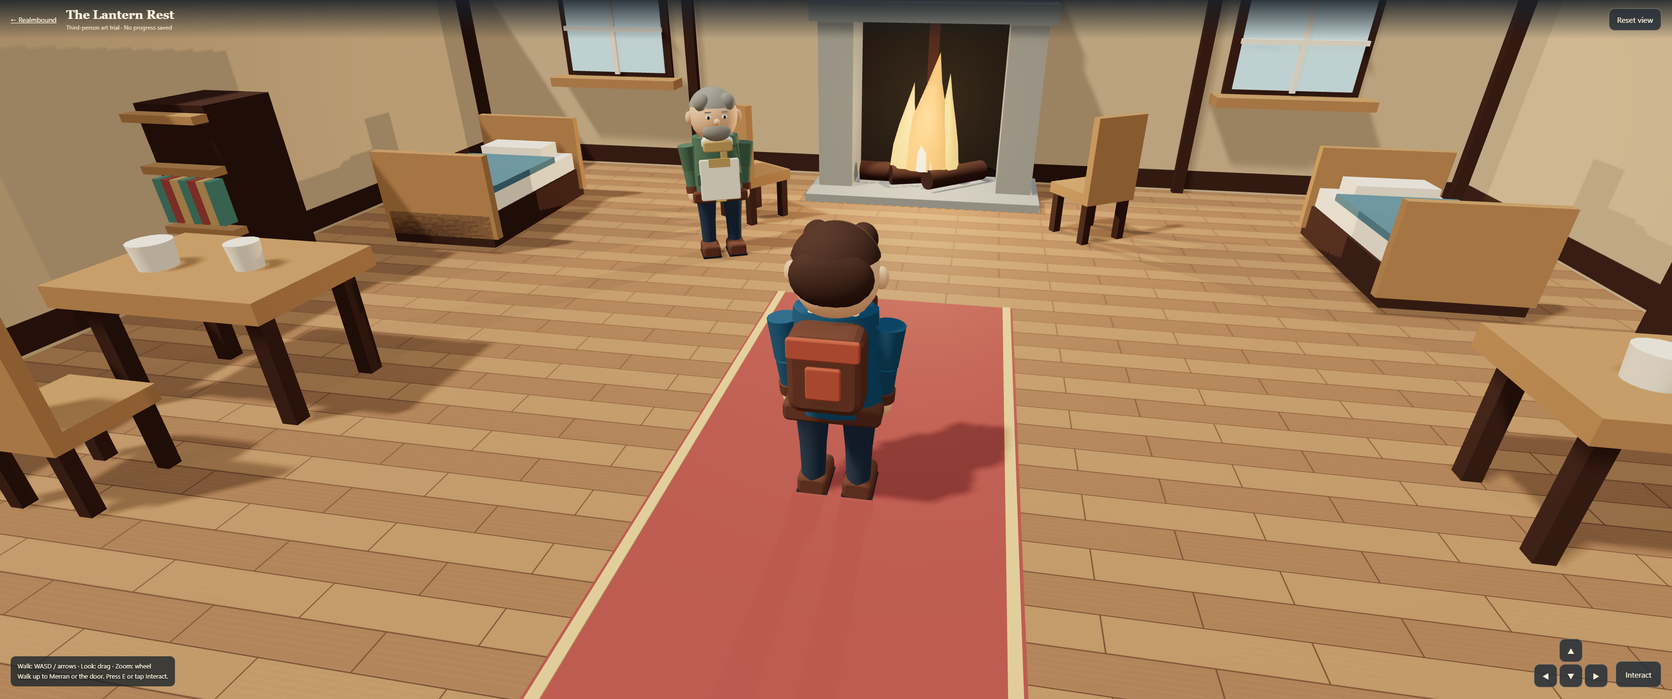
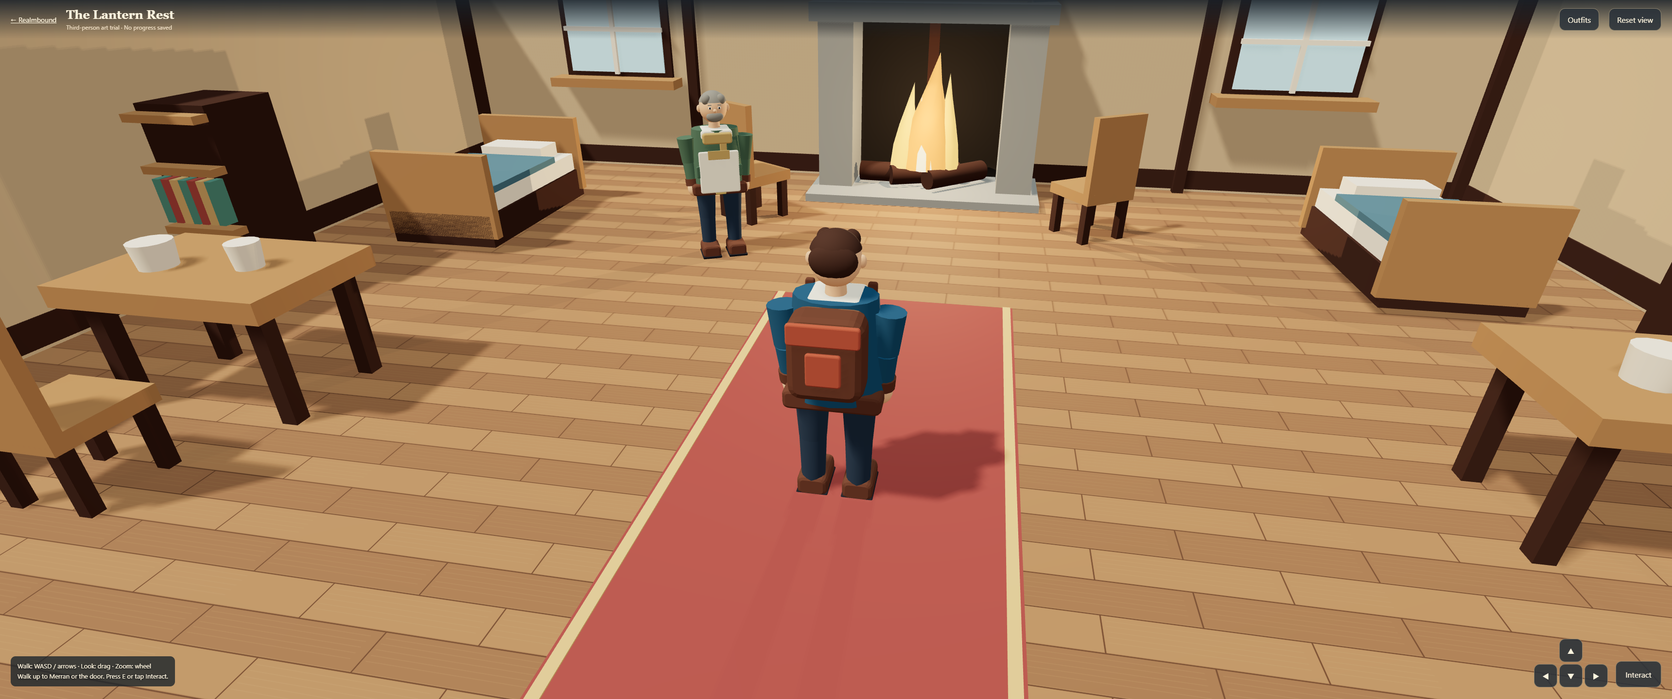
Show modular equipment and refine the 3D adventurer silhouette

diff --git a/experiments/realmbound-3d/gear.js b/experiments/realmbound-3d/gear.js
@@ -1,0 +1,50 @@
+/* Original modular equipment for the isolated trial. Input matches h.gear; no saves or rules. */
+(()=>{'use strict';
+ const T=window.THREE;if(!T)return;
+ const SLOTS=['head','chest','legs','feet','hands','weapon','offhand','trinket'];
+ const TYPES={head:['cloth','leather','mail'],chest:['cloth','leather','mail'],legs:['cloth','leather','mail'],feet:['cloth','leather','mail'],hands:['cloth','leather','mail'],weapon:['sword','dagger','mace','staff','bow'],offhand:['shield','tome','dagger'],trinket:['charm']};
+ const colors={cloth:'#675880',leather:'#765139',mail:'#8b9ba4',wood:'#765036',steel:'#b7c8ce',gold:'#caae70',unknown:'#d47dc0'};
+ function profile(slot,item){const type=slot==='weapon'?item.wtype:slot==='offhand'?item.otype:slot==='trinket'?'charm':item.atype;const supported=TYPES[slot].includes(type);return {id:'gear/'+slot+'/'+(supported?type:'unknown'),type:supported?type:'unknown',slot,name:String(item.name||'Unnamed equipment'),rar:Number.isFinite(item.rar)?item.rar:1};}
+ function mount(parent,name,x=0,y=0,z=0){const g=new T.Group();g.name=name;g.position.set(x,y,z);parent.add(g);return g;}
+ function prepare(hero){const r=hero.userData;if(r.gearSockets)return;
+  r.gearSockets={head:[mount(r.head,'head')],chest:[mount(r.upper,'chest',0,1.04,0),...r.arms.map(a=>mount(a,'shoulder',0,-.065,0))],legs:[...r.legs,...r.knees].map(l=>mount(l,'legs')),feet:r.feet.map(f=>mount(f,'feet')),hands:r.elbows.map(e=>mount(e,'hands',0,-.278,0)),weapon:[mount(r.elbows[1],'weapon',0,-.28,.025)],offhand:[mount(r.elbows[0],'offhand',0,-.28,.025)],trinket:[mount(r.upper,'trinket',0,1.17,.255)]};
+  r.gearVisuals={};r.gearDescriptors={};
+ }
+ function build(parent,p,side){
+  const g=mount(parent,p.id),materials=new Map();g.userData={assetId:p.id,slot:p.slot,type:p.type};
+  function mat(c){if(!materials.has(c))materials.set(c,new T.MeshStandardMaterial({color:new T.Color(c).convertSRGBToLinear(),roughness:c===colors.steel?.38:.8}));return materials.get(c);}
+  function mesh(geo,c,x,y,z){const m=new T.Mesh(geo,mat(c));m.position.set(x,y,z);m.castShadow=m.receiveShadow=true;g.add(m);return m;}
+  const box=(x,y,z,w,h,d,c)=>mesh(new T.BoxGeometry(w,h,d),c,x,y,z);
+  const ball=(x,y,z,w,h,d,c)=>{const m=mesh(new T.SphereGeometry(1,16,10),c,x,y,z);m.scale.set(w,h,d);return m;};
+  const rod=(x,y,z,r,h,c)=>mesh(new T.CylinderGeometry(r,r,h,12),c,x,y,z);
+  const base=colors[p.type]||colors.unknown,trim=p.rar>=3?'#8cc6c9':p.type==='mail'?'#b6c1c5':colors.leather;
+  if(p.type==='unknown'){ball(0,0,.07,.10,.10,.10,base);return g;}
+  if(p.slot==='head'){
+   const cap=mesh(new T.SphereGeometry(.275,20,12,0,Math.PI*2,0,Math.PI*.45),base,0,.025,0);cap.scale.z=.97;
+   if(p.type==='mail'){box(0,.115,.247,.36,.035,.035,trim);for(const s of [-1,1])box(s*.252,-.06,0,.04,.23,.27,base);}
+   else if(p.type==='leather'){box(0,.075,.245,.38,.04,.06,trim);box(0,.21,-.01,.025,.045,.31,trim);}
+   else{ball(0,.19,-.13,.19,.15,.19,base);}
+  }else if(p.slot==='chest'){
+   if(side>0){const sleeve=rod(0,0,0,.109,.16,base);sleeve.scale.z=.98;return g;}const plate=mesh(new T.CylinderGeometry(.25,.29,.56,10),base,0,.025,0);plate.scale.z=.75;
+   box(0,-.18,.248,.38,.025,.025,trim);box(0,.20,.225,.40,.025,.035,trim);
+   
+  }else if(p.slot==='legs'){rod(0,-.16,0,side<2?.112:.089,.31,base);box(0,-.16,side<2?.095:.077,.14,.21,.035,base);
+  }else if(p.slot==='feet'){box(0,.024,.075,.205,.115,.305,base);box(0,.11,-.025,.17,.13,.13,base);box(0,.077,.18,.18,.018,.06,base);
+  }else if(p.slot==='hands'){ball(0,0,0,.071,.087,.067,base);rod(0,.085,0,.077,.085,base);box(0,0,.068,.085,.06,.012,base);
+  }else if(p.slot==='trinket'){ball(0,0,0,.025,.035,.015,colors.gold);box(0,.04,0,.009,.04,.009,colors.gold);
+  }else if(p.type==='shield'){const sh=new T.Shape();sh.moveTo(-.22,.28);sh.lineTo(.22,.28);sh.lineTo(.22,-.08);sh.lineTo(0,-.34);sh.lineTo(-.22,-.08);sh.closePath();const rim=mesh(new T.ExtrudeGeometry(sh,{depth:.045,bevelEnabled:true,bevelThickness:.01,bevelSize:.01,bevelSegments:1,steps:1}),colors.steel,-.06,.07,.12);const inset=mesh(new T.ShapeGeometry(sh),colors.wood,-.06,.07,.18);inset.scale.set(.90,.90,1);ball(-.06,.07,.20,.045,.045,.022,colors.steel);
+  }else if(p.type==='tome'){box(0,.015,.11,.22,.29,.10,'#57436b');box(0,.015,.17,.15,.22,.025,'#e6d7b2');box(0,.015,.192,.03,.27,.014,trim);
+  }else if(p.type==='bow'){
+   const curve=new T.CatmullRomCurve3([new T.Vector3(0,-.55,.05),new T.Vector3(.14,-.30,.05),new T.Vector3(.18,0,.05),new T.Vector3(.14,.30,.05),new T.Vector3(0,.55,.05)]);mesh(new T.TubeGeometry(curve,24,.027,8,false),colors.wood,0,0,0);rod(0,0,.05,.006,1.1,'#ded4bb');box(.18,0,.05,.055,.14,.06,colors.leather);
+  }else if(p.type==='staff'){rod(0,.05,.06,.035,1.45,colors.wood);ball(0,.84,.06,.08,.11,.08,'#80bac8');rod(0,.70,.06,.06,.05,trim);
+  }else if(p.type==='mace'){rod(0,.15,.07,.03,.44,colors.wood);ball(0,.42,.07,.10,.10,.10,colors.steel);for(const s of [-1,1])box(s*.09,.42,.07,.035,.16,.09,colors.steel);g.rotation.z=Math.PI+.20;
+  }else{const length=p.type==='dagger'?.25:.45;rod(0,-.015,.08,.035,.18,colors.leather);box(0,.095,.08,.16,.025,.045,colors.steel);box(0,.12+length/2,.08,.065,length,.025,colors.steel);const tip=mesh(new T.ConeGeometry(.047,.10,4),colors.steel,0,.17+length,.08);tip.rotation.y=Math.PI/4;g.rotation.z=Math.PI+(p.slot==='offhand'?-.20:.20);}
+  return g;
+ }
+ function clear(hero,slot){const r=hero.userData;for(const g of r.gearVisuals[slot]||[]){g.traverse(o=>{if(o.geometry)o.geometry.dispose();});const mats=new Set();g.traverse(o=>{if(o.material)mats.add(o.material);});mats.forEach(m=>m.dispose());g.removeFromParent();}delete r.gearVisuals[slot];delete r.gearDescriptors[slot];}
+ function apply(hero,gear={}){prepare(hero);const r=hero.userData;for(const slot of SLOTS){clear(hero,slot);const item=gear[slot];if(!item)continue;const p=profile(slot,item);r.gearDescriptors[slot]=p;r.gearVisuals[slot]=r.gearSockets[slot].map((socket,i)=>build(socket,p,i));}r.head.traverse(o=>{if(o.name==='hair')o.visible=!gear.head;});r.pack.visible=!gear.chest;r.upper.traverse(o=>{if(o.name==='underlayer-detail')o.visible=!gear.chest;});const cloth=gear.chest?.atype==='mail'?'#3e4d57':gear.chest?.atype==='leather'?'#475340':gear.chest?.atype==='cloth'?'#514864':r.coatHex;r.coat.color.set(cloth).convertSRGBToLinear();return r.gearDescriptors;}
+ function kit(atype,wtype,otype){const gear={};for(const slot of SLOTS)gear[slot]={slot,rar:1,ilvl:10,name:slot,atype,wtype,otype};return gear;}
+ // Explicit demonstration items, not generated rewards or the player's equipment.
+ const presets=[{name:'Travel clothes',gear:{}},{name:'Warrior kit',gear:kit('mail','sword','shield')},{name:'Hunter kit',gear:kit('leather','bow','dagger')},{name:'Mage kit',gear:kit('cloth','staff','tome')}];
+ window.RealmTrialGear={SLOTS,profile,prepare,apply,presets};
+})();

diff --git a/experiments/realmbound-3d/characters.js b/experiments/realmbound-3d/characters.js
@@ -13,49 +13,49 @@
  function tube(parent,x,y,z,r1,r2,h,mat){return part(parent,new T.CylinderGeometry(r1,r2,h,14),mat,x,y,z);}
  function group(parent,x,y,z){const g=new T.Group();g.position.set(x,y,z);parent.add(g);return g;}
  function create({keeper=false}={}){
-  const g=new T.Group(),upper=group(g,0,0,0),coat=material(keeper?'#56705b':'#315e79'),pants=material('#354557'),trim=material(keeper?'#bd9d63':'#af5942'),hair=keeper?palette.grey:palette.hair;
+  const g=new T.Group(),upper=group(g,0,0,0),torso=group(upper,0,.08,0),coat=material(keeper?'#56705b':'#315e79'),pants=material('#354557'),trim=material(keeper?'#bd9d63':'#af5942'),hair=keeper?palette.grey:palette.hair;
   // Tailored jacket, collar, belt and layered shoulder sleeves.
-  const jacket=tube(upper,0,.96,0,.24,.29,.61,coat);jacket.scale.z=.7;
-  rounded(upper,0,.66,0,.57,.12,.34,.025,palette.leather);
-  rounded(upper,0,.66,.188,.11,.09,.025,.007,palette.gold);
-  rounded(upper,0,1.22,.025,.32,.10,.28,.025,palette.cream);
-  rounded(upper,0,1.19,.17,.30,.11,.065,.018,trim);
-  rounded(upper,.055,1.04,.18,.07,.29,.035,.01,trim);
-  for(const x of [-.16,.16])rounded(upper,x,.86,.19,.15,.12,.025,.01,coat);
-  if(keeper){rounded(upper,0,.85,.19,.41,.43,.035,.016,palette.cream);rounded(upper,0,1.03,.215,.22,.09,.012,.003,trim);}
-  const head=group(upper,0,1.47,0);
+  const jacket=tube(torso,0,.96,0,.24,.29,.61,coat);jacket.scale.z=.7;
+  rounded(torso,0,.66,0,.57,.12,.34,.025,palette.leather);
+  rounded(torso,0,.66,.188,.11,.09,.025,.007,palette.gold);
+  rounded(torso,0,1.22,.025,.32,.10,.28,.025,palette.cream).name='underlayer-detail';
+  rounded(torso,0,1.19,.17,.30,.11,.065,.018,trim).name='underlayer-detail';
+  rounded(torso,.055,1.04,.18,.07,.29,.035,.01,trim).name='underlayer-detail';
+  for(const x of [-.16,.16])rounded(torso,x,.86,.19,.15,.12,.025,.01,coat).name='underlayer-detail';
+  if(keeper){rounded(torso,0,.85,.19,.41,.43,.035,.016,palette.cream);rounded(torso,0,1.03,.215,.22,.09,.012,.003,trim);}
+  tube(torso,0,1.28,0,.055,.065,.13,palette.skin);const head=group(torso,0,1.47,0);head.scale.setScalar(.58);
   ellipsoid(head,0,0,0,.245,.27,.235,palette.skin);
-  const cap=part(head,new T.SphereGeometry(.254,24,16,0,Math.PI*2,0,Math.PI*.40),hair,0,.025,-.006);cap.scale.z=.98;
+  const cap=part(head,new T.SphereGeometry(.254,24,16,0,Math.PI*2,0,Math.PI*.40),hair,0,.025,-.006);cap.scale.z=.98;cap.name='hair';
   // Hair ends at the forehead in front, but extends behind the ears at the rear.
-  ellipsoid(head,0,.025,-.145,.23,.17,.115,hair);
+  ellipsoid(head,0,.025,-.145,.23,.17,.115,hair).name='hair';
   for(const sign of [-1,1]){
    ellipsoid(head,sign*.246,-.015,0,.042,.065,.034,palette.skin);
    const eye=ellipsoid(head,sign*.082,.018,.224,.029,.023,.013,palette.cream);eye.name='eye';
    ellipsoid(head,sign*.081,.018,.235,.012,.017,.008,palette.dark);
    rounded(head,sign*.083,.069,.223,.065,.012,.016,.003,hair);
-   const fringe=ellipsoid(head,sign*.13,.151,.14,.078,.088,.070,hair);fringe.rotation.z=sign*.25;
+   const fringe=ellipsoid(head,sign*.13,.151,.14,.078,.088,.070,hair);fringe.rotation.z=sign*.25;fringe.name='hair';
   }
   ellipsoid(head,0,-.025,.24,.031,.032,.037,palette.skin);
   rounded(head,0,-.112,.221,.051,.008,.014,.002,palette.leather);
   if(keeper)ellipsoid(head,0,-.135,.18,.15,.091,.065,hair);
   const arms=[],elbows=[],legs=[],knees=[],feet=[];
   for(const sign of [-1,1]){
-   const arm=group(upper,sign*.30,1.18,0);tube(arm,0,-.125,0,.094,.076,.25,coat);
+   const arm=group(torso,sign*.30,1.18,0);tube(arm,0,-.125,0,.094,.076,.25,coat);
    const elbow=group(arm,0,-.25,0);tube(elbow,0,-.115,0,.072,.062,.23,coat);tube(elbow,0,-.207,0,.075,.075,.07,palette.leather);
    ellipsoid(elbow,0,-.278,0,.064,.083,.060,palette.skin);
    arms.push(arm);elbows.push(elbow);
-   const leg=group(g,sign*.14,.63,0);tube(leg,0,-.13,0,.107,.084,.26,pants);
-   const knee=group(leg,0,-.26,0);tube(knee,0,-.125,0,.083,.073,.25,pants);
-   const foot=group(knee,0,-.30,0);rounded(foot,0,0,.07,.19,.135,.29,.032,palette.leather);rounded(foot,0,-.055,.075,.20,.023,.30,.007,palette.dark);
+   const leg=group(g,sign*.14,.74,0);tube(leg,0,-.165,0,.107,.084,.33,pants);
+   const knee=group(leg,0,-.33,0);tube(knee,0,-.155,0,.083,.073,.31,pants);
+   const foot=group(knee,0,-.34,0);rounded(foot,0,0,.07,.19,.135,.29,.032,palette.leather);rounded(foot,0,-.055,.075,.20,.023,.30,.007,palette.dark);
    legs.push(leg);knees.push(knee);feet.push(foot);
   }
-  if(!keeper){
-   rounded(upper,0,1.02,-.255,.42,.48,.23,.055,palette.leather);
-   rounded(upper,0,1.19,-.385,.39,.12,.035,.01,trim);
-   rounded(upper,0,.99,-.383,.19,.19,.03,.014,trim);
-   for(const sign of [-1,1]){rounded(upper,sign*.18,1.06,.17,.055,.43,.035,.01,palette.leather);rounded(upper,sign*.18,.93,.195,.055,.05,.016,.006,palette.gold);}
+  const pack=group(torso,0,0,0);if(!keeper){
+   rounded(pack,0,1.02,-.255,.42,.48,.23,.055,palette.leather);
+   rounded(pack,0,1.19,-.385,.39,.12,.035,.01,trim);
+   rounded(pack,0,.99,-.383,.19,.19,.03,.014,trim);
+   for(const sign of [-1,1]){rounded(pack,sign*.18,1.06,.17,.055,.43,.035,.01,palette.leather);rounded(pack,sign*.18,.93,.195,.055,.05,.016,.006,palette.gold);}
   }
-  g.userData={upper,head,arms,elbows,legs,knees,feet,keeper};return g;
+  g.userData={upper,head,arms,elbows,legs,knees,feet,keeper,pack,coat,coatHex:keeper?"#56705b":"#315e79"};return g;
  }
  function animate(g,{walking=false,phase=0,time=0,reduced=false,talking=false}={}){
   const r=g.userData,walk=walking&&!reduced,breath=reduced?0:Math.sin(time*1.8)*.004;
@@ -63,12 +63,12 @@
   for(let i=0;i<2;i++){
    const p=phase+i*Math.PI,swing=walk?Math.sin(p):0;
    r.arms[i].rotation.x=-swing*.30;r.arms[i].rotation.z=(i?-.07:.07);r.elbows[i].rotation.x=-.13;
-   r.legs[i].position.y=walk?.60:.63;
+   r.legs[i].position.y=walk?.71:.74;
    if(walk){
     // Two-bone inverse kinematics: stance feet stay low, swing feet clear the floor.
     const cycle=((p/(Math.PI*2))%1+1)%1,stance=cycle<.5,u=stance?cycle*2:(cycle-.5)*2;
-    const z=stance?.19-.38*u:-.19+.38*u*u*(3-2*u),y=.08+(stance?0:.12*Math.sin(u*Math.PI)),dy=y-.60;
-    const a=.26,b=.30,d=T.MathUtils.clamp(Math.hypot(dy,z),.20,a+b-.001);
+    const z=stance?.19-.38*u:-.19+.38*u*u*(3-2*u),y=.08+(stance?0:.12*Math.sin(u*Math.PI)),dy=y-.71;
+    const a=.33,b=.34,d=T.MathUtils.clamp(Math.hypot(dy,z),.20,a+b-.001);
     const base=Math.atan2(-z,-dy),offset=Math.acos(T.MathUtils.clamp((a*a+d*d-b*b)/(2*a*d),-1,1));
     r.legs[i].rotation.x=base-offset;r.knees[i].rotation.x=Math.PI-Math.acos(T.MathUtils.clamp((a*a+b*b-d*d)/(2*a*b),-1,1));
     r.feet[i].rotation.x=-r.legs[i].rotation.x-r.knees[i].rotation.x;

diff --git a/experiments/realmbound-3d/trial.js b/experiments/realmbound-3d/trial.js
@@ -41,7 +41,7 @@
  box(porch,0,-.14,0,22,.25,22,mat('#68816a'));box(porch,0,-.02,0,3,.06,15,mat('#c4b391'));outsideWalls.push(box(porch,0,1.6,-5,14,3.2,.5,mat('#c4ad8b'),true));box(porch,0,1.1,-4.7,1.6,2.2,.1,darkWood);box(porch,0,3.45,-5,15,.3,2,darkWood);
  for(const x of [-7,7])for(const z of [-2,3,7]){cylinder(porch,x,.9,z,.18,.25,1.8,darkWood);sphere(porch,x,2.4,z,1,mat('#365e49'),1,1.25,1);solids.push({x,z,w:1.8,d:1.8,outside:true});}
  const hemi=new T.HemisphereLight('#dceaf5','#77543a',.9);scene.add(hemi);const sun=new T.DirectionalLight('#ffebc5',.9);sun.position.set(-5,9,4);sun.castShadow=true;sun.shadow.mapSize.set(1024,1024);Object.assign(sun.shadow.camera,{left:-12,right:12,top:12,bottom:-12,near:1,far:30});sun.shadow.bias=-.0005;sun.shadow.normalBias=.04;scene.add(sun);
- const hero=RealmTrialCharacters.create();hero.position.set(0,0,1.5);hero.rotation.y=Math.PI;scene.add(hero);const keeper=RealmTrialCharacters.create({keeper:true});keeper.position.set(-2,0,-2.5);keeper.rotation.y=.45;room.add(keeper);solids.push({x:-2,z:-2.5,w:.75,d:.75,outside:false});
+ const hero=RealmTrialCharacters.create();RealmTrialGear.prepare(hero);hero.position.set(0,0,1.5);hero.rotation.y=Math.PI;scene.add(hero);const keeper=RealmTrialCharacters.create({keeper:true});keeper.position.set(-2,0,-2.5);keeper.rotation.y=.45;room.add(keeper);solids.push({x:-2,z:-2.5,w:.75,d:.75,outside:false});
  const D=Dialogue.create({host,theme:'realmbound',get:()=>state.dialogue,set:v=>state.dialogue=v,cast:()=>({name:'Merran',title:'Keeper of the Lantern Rest',skin:'#e7b68f',hairCol:'#8c8980',shirt:'#56705b',beard:true}),auto:()=>false});
  let noticeUntil=0;function notice(text){document.querySelector('#notice').textContent=text;noticeUntil=performance.now()+4000;}
  function isBlocked(x,z){const max=state.outside?10:6.65,depth=state.outside?10:5.65;if(Math.abs(x)>max||Math.abs(z)>depth)return true;return solids.some(b=>b.outside===state.outside&&Math.abs(x-b.x)<b.w/2+.22&&Math.abs(z-b.z)<b.d/2+.22);}
@@ -65,5 +65,7 @@
  }
  function frame(){const dt=Math.min(clock.getDelta(),.035);update(dt,clock.elapsedTime);renderer.render(scene,camera);requestAnimationFrame(frame);}document.querySelector('#loading').hidden=true;scene.background.set('#51443a');scene.fog.color.copy(scene.background);frame();
  canvas.addEventListener('webglcontextlost',e=>{e.preventDefault();document.querySelector('#loading').hidden=false;document.querySelector('#loading').textContent='3D graphics paused. Reload the trial to resume.';});
+ function outfits(){if(state.dialogue)return;keys.clear();D.play([['Merran','Try a travelling kit. These outfits are only for this art trial; your adventure and belongings stay as they are.']],i=>{if(i===undefined)return;const preset=RealmTrialGear.presets[i];RealmTrialGear.apply(hero,preset.gear);notice(preset.name+' — trial preview only.');},{choices:RealmTrialGear.presets.map(p=>p.name)});}
+ document.querySelector('#outfits').onclick=outfits;
  window.__rb3d={dialogue:D,state,hero,keeper,camera,renderer,scene,solids,isBlocked,interact,resetView,update,dimensions:{hero:1.75,bed:2.1,wall:3.2,room:[14,12]},teleport(x,z){hero.position.set(x,0,z);}};
 })();

diff --git a/experiments/realmbound-3d/index.html b/experiments/realmbound-3d/index.html
@@ -1,9 +1,9 @@
 <!doctype html>
 <html lang="en"><head><meta charset="utf-8"><meta name="viewport" content="width=device-width,initial-scale=1"><title>Realmbound — Third-person inn trial</title><link rel="stylesheet" href="trial.css"></head>
 <body><main id="world" aria-label="Walkable Realmbound inn"><canvas id="scene" aria-label="Third-person 3D inn"></canvas>
-<header><a href="../../games/realmbound/">← Realmbound</a><div><strong>The Lantern Rest</strong><span>Third-person art trial · No progress saved</span></div><button id="reset">Reset view</button></header>
+<header><a href="../../games/realmbound/">← Realmbound</a><div><strong>The Lantern Rest</strong><span>Third-person art trial · No progress saved</span></div><button id="outfits">Outfits</button><button id="reset">Reset view</button></header>
 <div id="loading" role="status">Lighting the hearth…</div>
 <div id="help">Walk: WASD / arrows · Look: drag · Zoom: wheel<br>Walk up to Merran or the door. Press E or tap Interact.</div>
 <div id="controls"><div id="pad" aria-label="Movement"><button data-key="ArrowUp" aria-label="Walk forward">▲</button><button data-key="ArrowLeft" aria-label="Walk left">◀</button><button data-key="ArrowDown" aria-label="Walk back">▼</button><button data-key="ArrowRight" aria-label="Walk right">▶</button></div><button id="interact">Interact</button></div>
 <div id="notice" role="status"></div></main>
-<script src="../../shared/dialogue.js"></script><script src="https://cdnjs.cloudflare.com/ajax/libs/three.js/r134/three.min.js" crossorigin="anonymous" onerror="document.querySelector('#loading').textContent='The 3D library could not load. This trial needs an internet connection. The existing Realmbound game remains available above.'"></script><script src="characters.js"></script><script src="trial.js"></script></body></html>
+<script src="../../shared/dialogue.js"></script><script src="https://cdnjs.cloudflare.com/ajax/libs/three.js/r134/three.min.js" crossorigin="anonymous" onerror="document.querySelector('#loading').textContent='The 3D library could not load. This trial needs an internet connection. The existing Realmbound game remains available above.'"></script><script src="characters.js"></script><script src="gear.js"></script><script src="trial.js"></script></body></html>

diff --git a/docs/proposals/realmbound-assets.md b/docs/proposals/realmbound-assets.md
@@ -1,0 +1,40 @@
+# Visible equipment and a path to richer Realmbound assets
+
+Evan, 2026-10-10: equipment must appear on the characters. All assets should be built so we can continually improve them toward a much higher-definition game. This is a development direction, not permission to buy assets or a claim that today's procedural art is finished.
+
+## Built now, in the isolated 3D trial
+
+`experiments/realmbound-3d/gear.js` accepts the existing `h.gear` shape: head, chest, legs, feet, hands, weapon, offhand and trinket, with `atype`, `wtype`, `otype` and `rar`. It resolves stable visual IDs from those fields, independently of translated/display names. Each slot attaches to the relevant character transform; leg armour follows thigh and knee, boots follow feet, held items follow hands, and headwear follows the head. Replacing or removing equipment disposes its geometry/materials and leaves the body and animation intact. Unknown types show an explicit coloured placeholder rather than disappearing.
+
+The in-world Outfits menu demonstrates travel clothes, a mail-clad Warrior with sword/shield, a leather-clad Hunter with bow/dagger, and a cloth-clad Mage with staff/tome. These are demonstration loadouts, not rewards or a connection to saved equipment. The current game and player saves are untouched. All five weapon types and three offhand types have original procedural meshes. This establishes the adapter; it does not yet provide a unique model for every item tier or a production skinning system.
+
+## Contract for the next art passes
+
+| Asset family | Stable requirements before replacing its art |
+|---|---|
+| People and visible equipment | Metre scale; feet at ground zero; forward +Z in this trial; named head/chest/hip/hand/foot attachment points; slot/material/type identity; exposed face and readable class silhouette; idle, walk, turn, talk and combat clips; equipment follows the pose. For skinned bodies, garments share the skeleton or are bound to compatible bones. |
+| Buildings and interiors | Door opening, floor elevation, entry/exit transforms and solid footprints are separate from the decorative mesh. Upgrading a wall or roof must not move a doorway or obstruct a route. |
+| Furniture and world props | Stable asset ID, pivot, measured dimensions, interaction point and collision footprint. Lamps/fireplaces include light and effect anchors; chairs/beds include occupation anchors. |
+| Creatures | Stable species identity, measured bounds, grounded locomotion, interaction/bond anchor, attack/effect anchors and silhouette at gameplay camera distance. |
+| Effects and environment | Local effect origin, bounded extent, light/shadow policy, reduced-motion variant, weather/time palette and distance/detail options. Flames remain within hearth openings. |
+
+Keep visual IDs and gameplay IDs separate from mesh filenames. A loader can replace procedural factories with licensed, authored GLB models later while preserving these contracts. GLB loading, retargeting and LOD switching are **not implemented yet**. Record source, licence and attribution for every imported asset before it enters the repo. No paid purchases without Evan's approval.
+
+## Upgrade in playable passes
+
+1. **Readable equipment, now:** every occupied slot has a visible representation; nothing is silently lost when swapping items. Capture front/back/profile views and movement, including mixed equipment.
+2. **One production-quality character:** improve anatomy, facial expressions, skinned cloth/armour, weapon grips and authored movement. Fit all equipment categories to that body before making dozens of variants. Avoid blades through faces, armour through limbs, and boots through floors.
+3. **One coherent room and road:** replace props, wall/roof materials and vegetation to the same detail standard. Preserve real object shadows, dimensions and navigable doors. Higher resolution alone will not fix a badly proportioned room.
+4. **Quality settings and measured budgets:** compare low/medium/high on Evan's PC and an actual phone; measure frame time, draw calls, memory and load size before choosing triangle/texture budgets. Add LODs, material atlases or shadow-distance limits where those measurements require them. Headless screenshots are not a performance test.
+5. **Production view adapter:** use actual saved gear and existing equip/unequip events to update visuals, preserving old saves and item rules. Verify every supported class/slot combination and save/reload. Only then expand locations and unique item-tier art.
+
+The goal is a coherent, increasingly detailed world with visible progression. Keep the warm original Realmbound identity as detail improves. Do not equate high definition with photorealism, or finish only the hero while leaving everything else at placeholder quality. Other games can adopt the same principles in their own engines; this trial does not edit or dictate Claude's Godot implementation.
+## Reference direction after Evan's kit review
+
+Evan found the first Warrior preview chaotic and suggested RuneScape or Erenshor as a more suitable quality/style reference. Our interpretation: equipment should form one recognisable adventurer silhouette, with clear material groupings and sensible carrying positions. This is an art judgement and direction for Realmbound, not a claim that either reference requires a particular engine or exact body ratio.
+
+Reference sources: [Jagex's Rune armour set](https://secure.runescape.com/m%3Ditemdb_oldschool/Rune%2Barmour%2Bset%2B%28lg%29/viewitem?obj=13024), [Erenshor's developer Steam gallery](https://store.steampowered.com/app/2382520/Erenshor/) and [official player's guide, character/class and equipment sections](https://www.erenshor.com/gallery/ESPPG.pdf). Use these for comparison; do not import their models, textures, costumes or names into Realmbound.
+
+The revised trial has a body of roughly five-and-a-half head heights, longer legs, fitted faceted torso armour and shoulder sleeves that follow each arm. Steel pieces share a quiet palette; the underlayer changes to coordinate with the equipment. Bright straps and large gold knee/boot blocks are removed. The travel pack is hidden with a full kit so it does not compete with the armour; removing that kit restores travel clothing and pack. The sword/dagger/mace point down, clear of the face; the sword is checked against the floor across a stride. None of this is a combat animation or a production-quality armour model yet.
+
+Next review is at gameplay camera distance, from front, back and profile while walking. Ask whether the class reads immediately, whether separate slots fit as one outfit, and whether the silhouette remains clear against the room. Passing code checks cannot approve the art. Before extending item tiers or more locations, replace one character/equipment set with well-authored, rigged art and compare it here. The current modular attachment contract makes that next pass possible; more decorative geometry alone is not the quality goal.

diff --git a/docs/proposals/realmbound-3d.md b/docs/proposals/realmbound-3d.md
@@ -41,7 +41,7 @@ Before anyone connects the trial to production, check open PRs and COMMS. RB1.7 
 
 ## Evidence
 
-`node tests/realmbound-3d.cjs http://localhost:8766` runs 117 checks in isolated browser contexts. Covers 375x812, 1366x768, 1920x1080 and 3440x1440, real keyboard and touch input, collisions, camera bounds, shared dialogue, entry/exit, unchanged sentinel saves, animation, drag orbit, wheel zoom and library-load failure. Additional rig checks sample 16 stride phases for planted feet and floor clearance, and verify reduced-motion freeze, no marching against collisions reciprocal conversation facing, and no horizontal sliding during straight stance steps. Captures live in docs/screenshots/realmbound-3d/. All 16 existing suites pass using `node tools/run-all-checks.cjs`.
+`node tests/realmbound-3d.cjs http://localhost:8766` runs 146 checks in isolated browser contexts. Covers 375x812, 1366x768, 1920x1080 and 3440x1440, real keyboard and touch input, collisions, camera bounds, shared dialogue, entry/exit, unchanged sentinel saves, animation, drag orbit, wheel zoom and library-load failure. Additional rig checks sample 16 stride phases for planted feet and floor clearance, and verify reduced-motion freeze, no marching against collisions reciprocal conversation facing, and no horizontal sliding during straight stance steps. Captures live in docs/screenshots/realmbound-3d/. All 16 existing suites pass using `node tools/run-all-checks.cjs`.
 
 Headless browser checks are not a hardware performance guarantee. Judge camera comfort, art quality and motion by playing on Evan's actual desktop and phone. Known limits: simple procedural models/fire, an open-roof room, no full game integration, no audio in the trial, no pinch zoom, and no gamepad controls yet.
 
@@ -55,3 +55,8 @@ Original traveller and Keeper silhouettes use the same approximately 1.75-metre 
 The material helper interprets authored palette colours as sRGB before lighting, preventing the earlier pale look. More body types, expressions, race/class silhouettes, skinned meshes and production animation remain future work. The earlier trial front/back screenshots are preserved as before-characters-* for an honest comparison.
 
 Latest-main validation: the first Starfall run could not preload the newly merged frontier art in this clone's stale import cache. A headless editor import refreshed the local cache without source changes; the Starfall rerun passed all 152 checks. The other 15 suites passed on the same source state.
+
+
+## Visible gear, Evan's next requirement
+
+The isolated trial now has a modular eight-slot equipment renderer and an Outfits menu inside the game window. It accepts the existing gear schema but previews demonstration loadouts only; saved equipment is not yet connected. The [asset contract](realmbound-assets.md) records the long-term direction for people, clothing, weapons, buildings, creatures, props and effects, with a tested replacement path and later performance/production-art stages.

diff --git a/docs/screenshots/realmbound-3d/README.md b/docs/screenshots/realmbound-3d/README.md
@@ -1,5 +1,7 @@
 # RB1.9 evidence
 
-Inn captures at 375x812, 1366x768, 1920x1080 and 3440x1440, plus the outdoor landing and front view. Generated by tests/realmbound-3d.cjs in fresh contexts with sentinel saves: 117 checks pass; no save writes or page errors. Reduced-motion inn captures; normal-motion front view. These show procedural trial art, not a production conversion. Compare prior 2D captures in ../realmbound-facing/ on PR #155 and ../realmbound-inn-layout/ on PR #153.
+Inn captures at 375x812, 1366x768, 1920x1080 and 3440x1440, plus the outdoor landing and front view. Generated by tests/realmbound-3d.cjs in fresh contexts with sentinel saves: 146 checks pass; no save writes or page errors. Reduced-motion inn captures; normal-motion front view. These show procedural trial art, not a production conversion. Compare prior 2D captures in ../realmbound-facing/ on PR #155 and ../realmbound-inn-layout/ on PR #153.
 
 Character follow-up: before-characters-inn-1920.png and before-characters-front-1920.png preserve the first trial from commit 0a44ded. Current captures show the detailed jointed traveller and Keeper, corrected palette rendering and planted feet. conversation-1920.png shows mutual facing and the Keeper's gesture. Camera and room dimensions are unchanged. No purchased or external character assets.
+
+Gear follow-up: gear-warrior-1920.png, gear-hunter-1920.png and gear-mage-1920.png show the modular loadouts close up; gear-hunter-375/1366/1920/3440.png cover the viewport controls. These are demonstration equipment, not the player's saved items. All eight slots, slot replacement/removal, every weapon/offhand type and immutable input are checked.

diff --git a/docs/COMMS.md b/docs/COMMS.md
@@ -36,6 +36,10 @@ from each ticket go in DEVELOPMENT-PATH.md Part 4 (a line each).
 
 ## Messages
 
+### 2026-10-10 15:15, Codex to all
+Evan requires visible equipment and a continuing path to much higher-definition assets across the games. Recorded in CREATIVE.md and docs/proposals/realmbound-assets.md. PR #159 adds eight-slot equipment attached to the character joints, all weapon/offhand categories, and in-world Warrior/Hunter/Mage preview controls. These are demonstration outfits; actual saved gear is not connected yet. Evan rejected the first Warrior silhouette as chaotic; the revision uses adult proportions, fitted matching armour, animated shoulders and lowered weapons, with RuneScape/Erenshor as reference direction. Stable asset identities, physical scale, collision/interaction anchors and future authored/skinned models apply to every asset family. No paid assets, Godot or live-game edits. All 16 existing suites pass; dedicated trial checks and screenshots cover gear swapping/removal and four screen sizes.
+
+
 ### 2026-10-10 14:30, Codex to all
 Continuing Evan's third-person request in PR #159: characters.js now owns original jointed traveller/Keeper models, planted-foot walking, reduced-motion freeze, and conversation facing/gesture. No marching when blocked; richer clothing/hair/faces and correct palette interpretation. Latest main merged with both assistants' log lines retained. 117 isolated trial checks and all existing suites pass; before/current screenshots included. Still no live-game/save/Godot edits or full conversion claim.
 

diff --git a/experiments/realmbound-3d/README.md b/experiments/realmbound-3d/README.md
@@ -7,4 +7,6 @@ Serve the repository, then open `/experiments/realmbound-3d/` (Codex's independe
 Uses the same MIT-licensed three.js r134 CDN as Wildbond's Diorama, plus existing shared/dialogue.js. An uncached first load needs the internet. No paid/downloaded art: all models, textures and fire geometry are original code.
 
 Plan and limits: [conversion outline](../../docs/proposals/realmbound-3d.md). Checks: `node tests/realmbound-3d.cjs http://localhost:8766` with Playwright and Chrome available.
-Character art lives in characters.js: original jointed models, planted-foot walking, quiet breathing, distinct traveller/Keeper clothing and reciprocal conversation facing. Reduced motion freezes idle/walk animation. The 117 dedicated checks include a full stride cycle's foot clearance and stance contact; this remains a trial rather than a full game conversion.
+Character art lives in characters.js: original jointed models, planted-foot walking, quiet breathing, distinct traveller/Keeper clothing and reciprocal conversation facing. Reduced motion freezes idle/walk animation. The 146 dedicated checks include a full stride cycle's foot clearance and stance contact; this remains a trial rather than a full game conversion.
+
+Use **Outfits** in the header to preview a Warrior, Hunter or Mage kit and return to travel clothes. Headwear, torso/leg armour, boots, gloves, weapon, offhand and pendant are modular. This accepts the real gear field shape but does not load your saved gear or grant items. Upgrade contract: docs/proposals/realmbound-assets.md.

diff --git a/START-HERE.md b/START-HERE.md
@@ -105,7 +105,7 @@ out, the ticket factory in [docs/DEVELOPMENT-PATH.md](docs/DEVELOPMENT-PATH.md) 
 
 ## Session log (newest first; one or two lines each)
 
-- **2026-10-10, Codex:** RB1.9: isolated third-person 3D Realmbound inn trial, PR #159. Plan in docs/proposals/realmbound-3d.md; all 16 suites and 117 dedicated checks pass; jointed characters, planted feet and conversation facing added. No live game, saves, versions or Godot edits.
+- **2026-10-10, Codex:** RB1.9: isolated third-person 3D Realmbound inn trial, PR #159. Plan in docs/proposals/realmbound-3d.md; all 16 suites and 146 dedicated checks pass; jointed characters, planted feet, conversation facing and modular eight-slot equipment previews added; asset upgrade contract recorded. No live game, saves, versions or Godot edits.
 
 
 - 2026-10-10 — Grok (Adam / abarish-dev, guest): re-exported `play/starfall/` (pack only, 3,231,660 bytes, from `28cee8c`; build.json + BUILD.md like Wildbond's) and refreshed images/play/sf-town.png; verified in headless Chrome + SwiftShader.

diff --git a/docs/DEVELOPMENT-PATH.md b/docs/DEVELOPMENT-PATH.md
@@ -417,3 +417,5 @@ line or two, with the page that holds the detail.
 - **2026-10-10, RB1.9 (Codex):** convincing perspective is not a nearly completed 3D port. An isolated physical-scale trial separates camera/art judgement from save and gameplay risk; camera collision also needs room bounds when rays pass through open doorways.
 
 - **2026-10-10, RB1.9 character follow-up (Codex):** animation phase should follow travelled distance, not held input; use foot placement rather than whole-leg swinging to prevent skating and floor penetration. Interpreting palette colours in the renderer's linear space prevents washed-out materials.
+
+- **2026-10-10, RB1.9 equipment follow-up (Codex):** visible gear needs stable item-type IDs and joint attachment points before higher-detail art. Inspect screenshots as well as checking meshes exist: a replaced scale component can accidentally stretch chest armour over a face. Keep prop dimensions, collisions and interactions separate from replaceable art.

diff --git a/README.md b/README.md
@@ -39,7 +39,7 @@ Anyone continuing this project (any AI assistant or person): open [START-HERE.md
 
 ## Changelog
 
-- **2026-10-10, RB1.9 (pending review):** An isolated third-person 3D Lantern Rest trial with original procedural people/furniture, a following camera and real shadows. Existing Realmbound gameplay and saves are untouched. No version bump.
+- **2026-10-10, RB1.9 (pending review):** An isolated third-person 3D Lantern Rest trial with original procedural people/furniture, a following camera, real shadows and modular eight-slot equipment previews. Existing Realmbound gameplay and saves are untouched. No version bump.
 
 
 - Starfall web preview (2026-10-10, guest): `play/starfall/` rebuilt from main `28cee8c`, so the preview shows the new frontier town: the scrolling stockade, the side-on gate, the fitted smithy and tavern, and evenings. Pack only (3.23 MB); the engine is unchanged. The Come Play picture is refreshed. [Build notes](play/starfall/BUILD.md)
